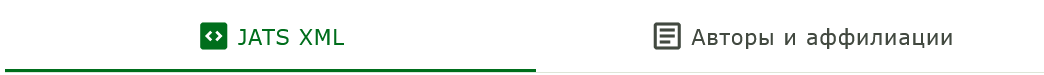
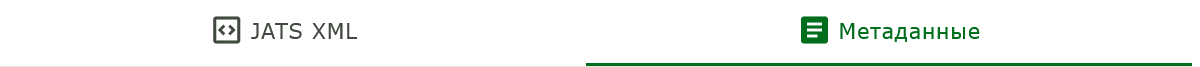
recreate complete meta from xml object

Changed region(s): [[0.0, 0.8955, 1.0, 1.0], [0.613, 0.2388, 0.9195, 0.6866], [0.1533, 0.2388, 0.3372, 0.6866]]

diff --git a/src/components/RecreatedText.vue b/src/components/RecreatedText.vue
@@ -1,5 +1,9 @@
 <script setup>
-import { computed } from 'vue';
+import { ref, computed } from 'vue';
+import { parseXMLDOM } from './parseXML';
+
+const orcidIcon = '/img/ORCID-iD_icon_unauth_vector.svg';
+
 const props = defineProps({
   xml : {
     type : Object,
@@ -7,96 +11,172 @@ const props = defineProps({
   },
 });
 
-const queryText = (selector) => props.xml.querySelector(selector)?.textContent;
+const meta = computed(() => parseXMLDOM(props.xml)?.article);
 
-const authors = computed(() => {
-  const result = Array.from(props.xml.querySelectorAll('contrib')).map((contrib) => {
-    const getFullname = (lang) => {
-      const givennamesElement = contrib.querySelector(`given-names:lang(${lang})`);
-      const surnameElement = contrib.querySelector(`surname:lang(${lang})`);
-      const givennames = givennamesElement?.textContent ?? '';
-      const surname = surnameElement?.textContent ?? '';
-      let fullname = '';
-      if (surname && givennames) {
-        fullname = `${givennames} ${surname}`;
-      } else {
-        fullname = surname ? surname : givennames;
-      }
-      return fullname;
-    };
-    const affNumbers = Array.from(contrib.querySelectorAll(`xref[ref-type="aff"]`)).map((xref) => {
-      const rid = xref.getAttribute('rid');
-      return rid.match(/\d+/);
-    });
-    let fullname_en = getFullname('en');
-    let fullname_ru = getFullname('ru');
-    if (fullname_en && !fullname_ru) {
-      fullname_ru = fullname_en;
-    } else if (!fullname_en && fullname_ru) {
-      fullname_en = fullname_ru;
-    } else if (!fullname_en && !fullname_ru) {
-      fullname_en = 'NAMELESS AUTHOR';
-      fullname_ru = 'АВТОР БЕЗ ИМЕНИ';
-    }
-    return {
-      fullnames: {
-        en: fullname_en,
-        ru: fullname_ru
-      },
-      affNumbers: affNumbers
-    };
-  });
-  return result;
+function getFullname(author, lang) {
+  const givennames = author.givennames[lang];
+  const surname = author.surnames[lang];
+  let fullname = '';
+  if (surname && givennames) {
+    fullname = `${givennames} ${surname}`;
+  } else {
+    fullname = surname ? surname : givennames;
+  }
+  return fullname;
+};
+
+function getFullnameWithFallback(author, lang) {
+  let fullname = getFullname(author, lang);
+  if (!fullname) {
+    fullname = getFullname(author, (lang === 'ru' ? 'en' : 'ru'));
+  }
+  if (!fullname) {
+    fullname = lang === 'ru' ? 'АВТОР БЕЗ ИМЕНИ' : 'NAMELESS AUTHOR';
+  }
+  return fullname;
+}
+
+function getAffiliationWithFallback(index, lang) {
+  const otherLang = lang === 'ru' ? 'en' : 'ru';
+  return meta.value.affiliations[lang][index] || meta.value.affiliations[otherLang][index];
+}
+
+const tr = (lang, ru, en) => (lang === 'ru') ? ru : en;
+
+const detailsOpen = ref({
+  en: true,
+  ru: true
 });
 
-const affiliations = computed(() => {
-  const getAffs = lang => Array.from(props.xml.querySelectorAll(`aff-alternatives aff institution:lang(${lang})`)).map(e => e.textContent);
+const detailsCaptions = computed(() => {
+  const suffixes = {
+    en: ' References:',
+    ru: ' Список литературы:'
+  }
   return {
-    en: getAffs('en'),
-    ru: getAffs('ru'),
+    en: (detailsOpen.value.en ? '▼' : '►') + suffixes.en,
+    ru: (detailsOpen.value.ru ? '▼' : '►') + suffixes.ru
   }
 });
+
+const handleToggle = (lang, e) => {
+  detailsOpen.value[lang] = e.target.open;
+};
 </script>
 
 <template>
   <section class="recreated-text-wrapper">
-    <article>
-      <div>По-русски:</div>
-      <div v-if="authors.length">
-        <span v-for="(a, index) in authors" :key="index">
-          <span>{{ a.fullnames.ru }}</span>
-          <span v-if="a.affNumbers.length"> <sup>{{ a.affNumbers.join(', ') }}</sup></span>
-          <span v-if="index + 1 < authors.length">, </span>
+    <article v-for="lang in ['ru', 'en']" :key="lang">
+      <div v-if="meta.doi" class="url">
+        <span class="description">DOI: </span>
+        <a :href="`https://doi.org/${meta.doi}`" target="_blank" class="link underline">{{ meta.doi }}</a>
+      </div>
+      <div v-else class="warning">{{ tr(lang, 'нет DOI', 'no DOI') }}</div>
+      <div v-if="meta.edn" class="edn"><span class="description">EDN: </span>{{ meta.edn }}</div>
+      <div v-if="meta.pageUrl" class="url">
+        <span class="description">{{ tr(lang, 'Страница статьи: ', 'Article webpage: ') }}</span>
+        <a :href="meta.pageUrl" target="_blank" class="link underline">{{ meta.pageUrl }}</a>
+      </div>
+      <div v-else class="warning">{{ tr(lang, 'нет ссылки на страницу статьи', 'no article webpage URL') }}</div>
+      <div v-if="meta.pdfUrl" class="url">
+        <span class="description">PDF: </span>
+        <a :href="meta.pdfUrl" target="_blank" class="link underline">{{ meta.pdfUrl }}</a>
+      </div>
+      <div v-else class="warning">{{ tr(lang, 'нет ссылки на PDF статьи', 'no article PDF URL') }}</div>
+      <div v-if="meta.licenseUrl && meta.copyrightHolders[lang]" class="copyright">
+        <div class="copyright-statement">
+          {{ `Copyright © ${meta.copyrightYear ? (meta.copyrightYear + ' ') : ''}${meta.copyrightHolders[lang]}` }}
+        </div>
+        <div class="copyright-license">
+          <span>{{ tr(lang, 'Распространяется по лицензии ', 'Licensed under ') }}</span>
+          <a :href="meta.licenseUrl" target="_blank" class="link underline">{{ meta.licenseUrl }}</a>
+        </div>
+      </div>
+      <div v-else class="warning">{{ tr(lang, 'нет ссылки на лицензию или правообладателей', 'no license URL or copyright holders') }}</div>
+      <div v-if="meta.titles[lang]" class="title">{{ meta.titles[lang] }}</div>
+      <div v-else class="warning">{{ tr(lang, 'нет заголовка', 'no title') }}</div>
+      <div v-if="meta.authors.length" class="authors">
+        <span v-for="(a, index) in meta.authors" :key="index" class="author">
+          <span class="fullname">{{ getFullnameWithFallback(a, lang) }}</span>
+          <sup v-if="a.affNumbers.length">{{ ' ' + a.affNumbers.join(', ') }}</sup>
+          <a v-if="a.email" :href="`mailto:${a.email}`" target="_blank" class="email-logo">✉</a>
+          <a v-if="a.orcid" :href="a.orcid" target="_blank" class="orcid-logo"><img :src="orcidIcon" alt="orcid logo" /></a>
+          <span v-if="index + 1 < meta.authors.length">, </span>
         </span>
       </div>
-      <div v-else>Нет авторов</div>
-      <div v-if="affiliations?.ru.length">
+      <div v-else class="warning">{{ tr(lang, 'нет авторов', 'no authors') }}</div>
+      <div v-if="meta.affiliations[lang].length" class="affiliations">
         <ol>
-          <li v-for="(aff, index) in affiliations.ru" :key="index">{{ aff }}</li>
+          <li v-for="(aff, index) in meta.affiliations[lang]" :key="index">{{ getAffiliationWithFallback(index, lang) }}</li>
         </ol>
       </div>
-      <div v-else>Нет аффилиаций</div>
-    </article>
-    <article>
-      <div>In English:</div>
-      <div v-if="authors.length">
-        <span v-for="(a, index) in authors" :key="index">
-          <span>{{ a.fullnames.en }}</span>
-          <span v-if="a.affNumbers.length"> <sup>{{ a.affNumbers.join(', ') }}</sup></span>
-          <span v-if="index + 1 < authors.length">, </span>
-        </span>
+      <div v-else class="warning">{{ tr(lang, 'нет аффилиация', 'no affiliations') }}</div>
+      <div v-if="meta.abstracts[lang]" class="abstract">
+        <span class="description">{{ tr(lang, 'Аннотация: ', 'Abstract: ') }}</span>
+        {{ meta.abstracts[lang] }}
       </div>
-      <div v-else>No authors</div>
-      <div v-if="affiliations?.en.length">
+      <div v-else class="warning">{{ tr(lang, 'нет аннотации', 'no abstract') }}</div>
+      <div v-if="meta.keywords[lang]" class="keywords">
+        <span class="description">{{ tr(lang, 'Ключевые слова: ', 'Keywords: ') }}</span>
+        {{ meta.keywords[lang] }}
+      </div>
+      <div v-else class="warning">{{ tr(lang, 'нет ключевых слов', 'no keywords') }}</div>
+      <div class="dates">
+        <span v-if="meta.dateSubmitted">{{ tr(lang, 'Получена ', 'Received ') + `${meta.dateSubmitted}, ` }}</span>
+        <span v-if="meta.dateAccepted">{{ tr(lang, 'Принята ', 'Accepted ') + `${meta.dateAccepted}, ` }}</span>
+        <span v-if="meta.datePublished">{{ tr(lang, 'Опубликована ', 'Published ') + `${meta.datePublished}` }}</span>
+        <span v-else class="warning">{{ tr(lang, 'нет даты опубликования', 'no "published" date') }}</span>
+      </div>
+      <div class="pub-data">
+        <span v-if="meta.volume">{{ tr(lang, 'Том ', 'Vol. ') + meta.volume + ', ' }}</span>
+        <span v-if="meta.issue">{{ tr(lang, 'Выпуск ', 'Issue ') + meta.issue + ', ' }}</span>
+        <span v-if="meta.pages">{{ (meta.useElocationId ? '№ ' : tr(lang, 'c. ', 'p. ')) + meta.pages }}</span>
+        <span v-else class="warning">{{ tr(lang, 'нет страниц', 'no pages') }}</span>
+      </div>
+      <div v-if="meta.acknowledgments[lang]" class="acknowledgments">
+        <span class="description">{{ tr(lang, 'Благодарности: ', 'Acknowledgments: ') }}</span>
+        {{ meta.acknowledgments[lang] }}
+      </div>
+      <div v-if="meta.fundings[lang]" class="funding">
+        <span class="description">{{ tr(lang, 'Финансирование: ', 'Funding: ') }}</span>
+        {{ meta.fundings[lang] }}
+      </div>
+      <details v-if="meta.citations[lang]" class="citations" :open="detailsOpen[lang]" @toggle="handleToggle(lang, $event)">
+        <summary>{{ detailsCaptions[lang] }}</summary>
         <ol>
-          <li v-for="(aff, index) in affiliations.en" :key="index">{{ aff }}</li>
+          <li v-for="(ref, index) in meta.citations[lang].split(/\r?\n|\r/)" :key="index">{{ ref }}</li>
         </ol>
-      </div>
-      <div v-else>No affiliations</div>
+      </details>
+      <div v-else class="warning">{{ tr(lang, 'нет списка литературы', 'no references') }}</div>
     </article>
   </section>
 </template>
 
 <style scoped>
-
+  .title {
+    font-weight: bold;
+    font-size: 1.1rem;
+    margin-top: 0.5rem;
+  }
+  .description {
+    font-weight: bold;
+  }
+  .warning {
+    color: var(--error);
+  }
+  .citations > ol {
+    font-size: 0.8rem;
+    margin-top: 0 !important;
+    margin-bottom: 0 !important;
+  }
+  .email-logo {
+    font-size: 1.25rem;
+  }
+  .orcid-logo,
+  .email-logo {
+    margin-left: 0.2rem;
+  }
+  .orcid-logo img {
+    width: 20px;
+  }
 </style>

diff --git a/src/components/parseXML.js b/src/components/parseXML.js
@@ -3,6 +3,10 @@ import { genJournalMeta, genArticleMeta, genAuthorMeta } from "./metadataTemplat
 export default function parseXML(xmlString) {
   const parser = new DOMParser();
   const xml = parser.parseFromString(xmlString, "application/xml");
+  return parseXMLDOM(xml);
+}
+
+export function parseXMLDOM(xml) {
   const getText = (selector, root=xml) => root.querySelector(selector)?.textContent.trim() ?? '';
   const getBilingualText = (selector, root=xml) => {
     return {
@@ -11,6 +15,10 @@ export default function parseXML(xmlString) {
     }
   };
   const getAttr = (selector, attribute) => xml.querySelector(selector)?.getAttribute(attribute) ?? '';
+  const getAttrNS = (selector, namespace, attribute) => {
+    return xml.querySelector(selector)?.getAttributeNS(namespace, attribute) ?? '';
+  };
+  const xlinkns = 'http://www.w3.org/1999/xlink';
   const getMultipleTexts = (selector, delimiter) => {
     const texts = Array.from(xml.querySelectorAll(selector)).map(e => e.textContent.trim());
     return texts.join(delimiter);
@@ -34,15 +42,15 @@ export default function parseXML(xmlString) {
     articleType : getAttr('article', 'article-type'),
     doi : getText('article-id[pub-id-type="doi"]'),
     edn : getText('article-id[pub-id-type="edn"]'),
-    pageUrl : getAttr('self-uri[content-type="html"]', 'xlink:href'),
-    pdfUrl : getAttr('self-uri[content-type="pdf"]', 'xlink:href'),
+    pageUrl : getAttrNS('self-uri[content-type="html"]', xlinkns, 'href'),
+    pdfUrl : getAttrNS('self-uri[content-type="pdf"]', xlinkns, 'href'),
     titles : getBilingualText('article-title'),
     abstracts : getBilingualText('abstract'),
     keywords : getMultipleBilingualTexts('kwd', '; '),
     // authors : [],
     // affiliations : [],
     copyrightHolders : getBilingualText('copyright-holder'),
-    licenseUrl : getAttr('license', 'xlink:href'),
+    licenseUrl : getAttrNS('license', xlinkns, 'href'),
     copyrightYear : getText('copyright-year'),
     dateSubmitted : getAttr('date[date-type="received"]', 'iso-8601-date'),
     dateAccepted : getAttr('date[date-type="accepted"]', 'iso-8601-date'),

diff --git a/src/components/ArticleWrapper.vue b/src/components/ArticleWrapper.vue
@@ -31,7 +31,7 @@ const props = defineProps({
   }
 });
 
-const xmlTabActive = ref(true);
+const xmlTabActive = ref(false);
 </script>
 
 <template>
@@ -45,7 +45,7 @@ const xmlTabActive = ref(true);
       </a>
       <a :class="{ 'active' : !xmlTabActive }" @click="() => {xmlTabActive = false}">
         <i>article</i>
-        <span>Авторы и аффилиации</span>
+        <span>Метаданные</span>
       </a>
     </div>
     <div v-if="xmlTabActive" class="page padding" :class="{ 'active' : xmlTabActive }">

diff --git a/src/components/metadataTemplates.js b/src/components/metadataTemplates.js
@@ -14,7 +14,7 @@ export function genAuthorMeta() {
       en : '',
       ru : ''
     },
-    affNumbers : []
+    affNumbers : [] // 1-indexed
   };
 }
 

diff --git a/src/components/HelpForm.md b/src/components/HelpForm.md
@@ -2,7 +2,7 @@
 
 Настройки *Параметры отображения текстовых полей* влияют только на отображение, но не на заполненную информацию. Если, например, вы заполните все англоязычные поля и выключите их на время чтобы не мешали заполнять русскоязычные, данные из англоязычных никуда не денутся.
 
-Два крупных раздела формы - сведения о журнале и о статье. Информация о журнале сохраняется в браузере, о статье - нет (теряется при перезагрузке страницы). Для сохранения промежуточных результатов в том же меню, где кнопка вызова этой справочной страницы, есть возможность скачать и загрузить обратно введенную информацию о журнале и статье одновременно в формате JATS XML (полностью поддерживаются только файлы, сгенерированные этим приложением).
+Два крупных раздела формы - сведения о журнале и о статье. Информация о журнале сохраняется в браузере, о статье - нет (теряется при перезагрузке страницы). Для сохранения промежуточных результатов в том же меню, где кнопка вызова этой справочной страницы, есть возможность скачать и загрузить обратно введенную информацию о журнале и статье одновременно в формате JATS XML. Пока полностью поддерживаются только файлы, сгенерированные этим приложением - JATS очень лояльный формат, и можно встретить самые... разнообразные варианты.
 
 Форма в целом почти повторяет ту, которая используется в ИС Метафора, с некоторыми OJS-специфичными оптимизациями. Звездочками в форме отмечены поля, которые отмечены в ИС Метафора и которые ее разработчики считают обязательными.
 
@@ -12,7 +12,7 @@
 
 Для оптимизации производительности обновление данных происходит не мгновенно при вводе каждой буквы, а при обновлении текстового поля целиком. Это происходит когда поле теряет фокус (например, по клику в любое место страницы вне поля), а в случае однострочных полей еще и по нажатию Enter. Например, если вы поменяли аффилиацию одному из авторов и хотите увидеть изменения в XML, нажмите Enter или кликните куда-то вне поля с аффилиацией, чтобы изменения подхватились.
 
-**Название и аннотация** в зависимости от того откуда загружены или скопированы могут содержать html-тэги. Автоматически они не убираются, чтобы вы видели, в каком виде у вас хранится информация. Вам их нужно убирать вручную, кликнув на соответствующую кнопку.
+**Название и аннотация** в зависимости от того откуда загружены или скопированы могут содержать html-тэги. Автоматически они не убираются по разным причинам, в частности, чтобы вы видели, в каком виде у вас хранится информация. Вам их нужно убирать вручную, кликнув на соответствующую кнопку.
 
 **Аннотация** в большинстве случаев должна состоять из одного абзаца (с точки зрения компьютера - из одной длинной строки). Чтобы контролировать этот момент, под полем аннотации есть счетчик строк. Так же как и значение поля, он обновляется не мгновенно, а только когда поле теряет фокус.
 
@@ -40,8 +40,10 @@
 
 ![вкладки](/img/tabs.png)
 
-Под левой в текстовом виде JATS XML (готовый файл можно скачать из меню), под которым есть ссылка на валидатор NISO (справа). Валидатор вам скорее всего не понадобится, но если будете пользоваться, можно не обращать внимание на ошибки JATS4R Schematron - он сделан давно и из расчета на более старую версию JATS.
+Под левой в текстовом виде JATS XML (готовый файл можно скачать из меню), под которым есть ссылка на валидатор NISO (справа). Валидатор вам скорее всего не понадобится, но если будете пользоваться, можно не обращать внимание на ошибки JATS4R Schematron - он сделан давно и из расчета на более старую версию JATS, не до конца поддерживает многоязычные возможности JATS 1.4, и ломается об элемент `permissions`.
 
-Под правой вкладкой планируется воспроизводить в текстовом виде метаданные статьи, сгенерированные обратно из XML, чтобы удобнее было проверять корректность введенных данных. Сейчас там только полные имена авторов и аффилиации - то, с чем проще всего ошибиться.
+Под правой вкладкой в текстовом виде воспроизводятся метаданные статьи, сгенерированные обратно из сформированного XML, чтобы удобнее было проверять корректность введенных данных. Особенно внимательно смотреть надо на аффилиации.
 
-Обратите также внимание что в моих формах практически нет семантической валидации. Отчасти это так потому что какая-то валидация есть в Метафоре, а отчасти - потому что если вы очень хотите забивать DOI и ключевые слова в аннотацию, а название статьи - в дату публикации, то я не буду вам мешать. Чистота ваших метаданных в первую очередь на вашей совести.
+Даже если у вас исключительно одноязычный журнал, в метаданных для второго языка что-нибудь да будет. Во-первых, часть метаданных по определению не имеет языка (DOI, например), а во-вторых я пытался предусмотреть случаи в которых имена или аффилиации некоторых авторов заполнены только на одном языке. Если вам не нужен второй язык, просто не обращайте на это внимание.
+
+В моих формах практически нет семантической валидации. Отчасти это так потому что какая-то валидация есть в Метафоре, а отчасти - потому что если вы очень хотите забивать DOI и ключевые слова в аннотацию, а название статьи - в дату публикации, то я не буду вам мешать. Чистота ваших метаданных в первую очередь на вашей совести.
